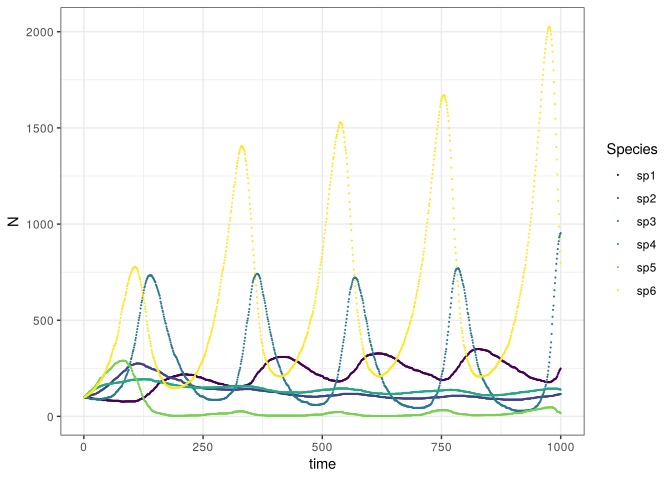
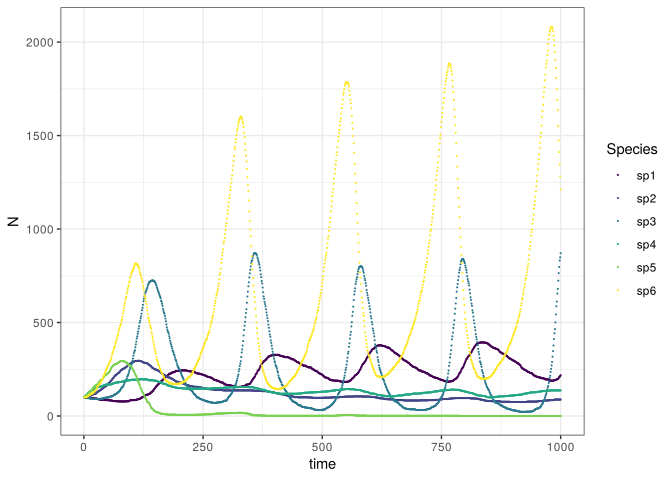
README: set.seed in the GLV example so the knitted output is reproducible
Claude-Session: https://claude.ai/code/session_01EjotYjXC5xb1UbmwKL2yS6

diff --git a/README.md b/README.md
@@ -168,6 +168,7 @@ calcPropInteractionsGLVadjMat(A,yini)
 
 ``` r
 
+set.seed(42)
 A1 <- metaWebNetAssemblyGLV(A,m,r,yini,1000,0.1)
 ```
 
@@ -177,10 +178,10 @@ A1 <- metaWebNetAssemblyGLV(A,m,r,yini,1000,0.1)
 ``` r
 
 A1$STime[,1000]
-#> [1] 249 116 953 139  17 799
+#> [1]  218   88  871  137    0 1212
 
 calcPropInteractionsGLVadjMat(A,A1$STime[,1000])
-#> [1] 0.2 0.6 0.0 0.1 0.1
+#> [1] 0.2857143 0.5714286 0.0000000 0.1428571 0.0000000
 ```
 
 - Plot the time series of the species
